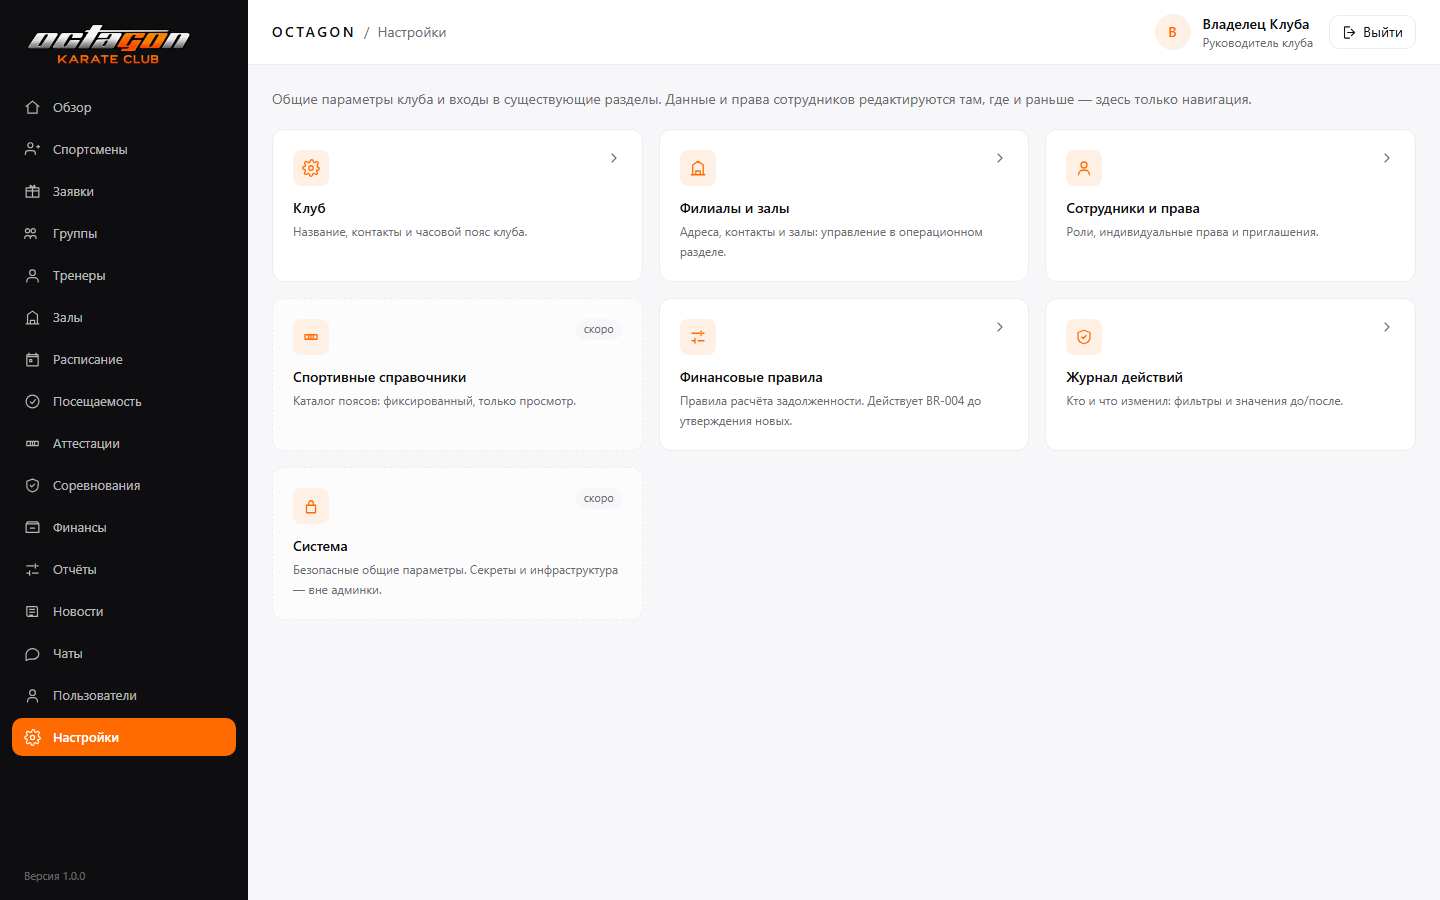
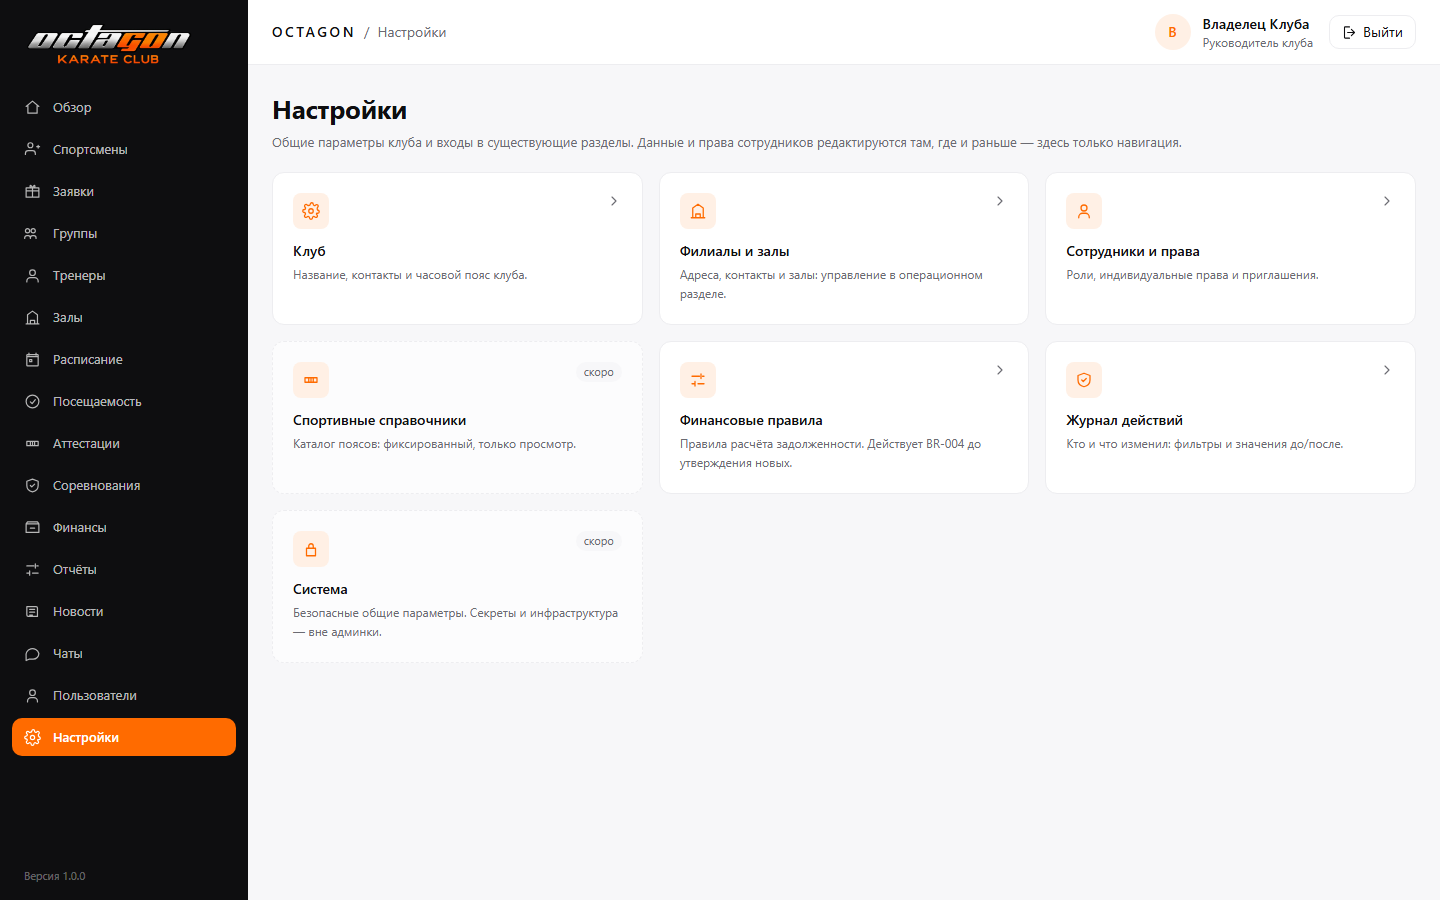
fix(admin): архив аттестаций по дате, крошки разделов, настройки без «скоро» (#135)

diff --git a/apps/admin/src/app/settings/page.tsx b/apps/admin/src/app/settings/page.tsx
@@ -48,7 +48,7 @@ const CATEGORIES: readonly SettingsCategory[] = [
     superadminOnly: true,
   },
   {
-    title: 'Филиалы и залы',
+    title: 'Залы',
     description: 'Адреса, контакты и залы: управление в операционном разделе.',
     icon: 'halls',
     href: '/halls',
@@ -62,12 +62,6 @@ const CATEGORIES: readonly SettingsCategory[] = [
     requiredPermissions: ['users.manage', 'permissions.manage'],
   },
   {
-    title: 'Спортивные справочники',
-    description: 'Каталог поясов: фиксированный, только просмотр.',
-    icon: 'belt',
-    pending: 'K3',
-  },
-  {
     title: 'Финансовые правила',
     description: 'Правила расчёта задолженности. Действует BR-004 до утверждения новых.',
     icon: 'sliders',
@@ -79,13 +73,6 @@ const CATEGORIES: readonly SettingsCategory[] = [
     description: 'Кто и что изменил: фильтры и значения до/после.',
     icon: 'shield',
     href: '/settings/audit',
-    superadminOnly: true,
-  },
-  {
-    title: 'Система',
-    description: 'Безопасные общие параметры. Секреты и инфраструктура — вне админки.',
-    icon: 'lock',
-    pending: 'K1',
     superadminOnly: true,
   },
 ];

diff --git a/apps/admin/src/app/attestations/page.tsx b/apps/admin/src/app/attestations/page.tsx
@@ -97,8 +97,17 @@ export default async function AttestationsPage() {
     : null;
 
   const rows = events?.ok ? events.data : [];
-  const active = rows.filter((event) => !['CANCELLED', 'PUBLISHED'].includes(event.status));
-  const archive = rows.filter((event) => ['CANCELLED', 'PUBLISHED'].includes(event.status));
+  // Активное — то, что ещё не прошло и не отменено. Публикация результата сама
+  // по себе не отправляет мероприятие в архив: экзамен 15 ноября, опубликованный
+  // заранее, остаётся предстоящим (#135).
+  const today = new Date().toISOString().slice(0, 10);
+  const isPast = (event: EventView) => event.scheduledAt.slice(0, 10) < today;
+  const active = rows.filter(
+    (event) => event.status !== 'CANCELLED' && !isPast(event),
+  );
+  const archive = rows.filter(
+    (event) => event.status === 'CANCELLED' || isPast(event),
+  );
 
   return (
     <AppShell user={user}>

diff --git a/apps/admin/src/components/breadcrumbs.tsx b/apps/admin/src/components/breadcrumbs.tsx
@@ -21,6 +21,10 @@ const SECTIONS: readonly { prefix: string; title: string }[] = [
   { prefix: '/schedule', title: 'Расписание' },
   { prefix: '/attendance', title: 'Посещаемость' },
   { prefix: '/finance', title: 'Финансы' },
+  { prefix: '/attestations', title: 'Аттестации' },
+  { prefix: '/competitions', title: 'Соревнования' },
+  { prefix: '/reports', title: 'Отчёты' },
+  { prefix: '/trial-requests', title: 'Заявки' },
   { prefix: '/news', title: 'Новости' },
   { prefix: '/chats', title: 'Чаты' },
   { prefix: '/users', title: 'Пользователи' },
